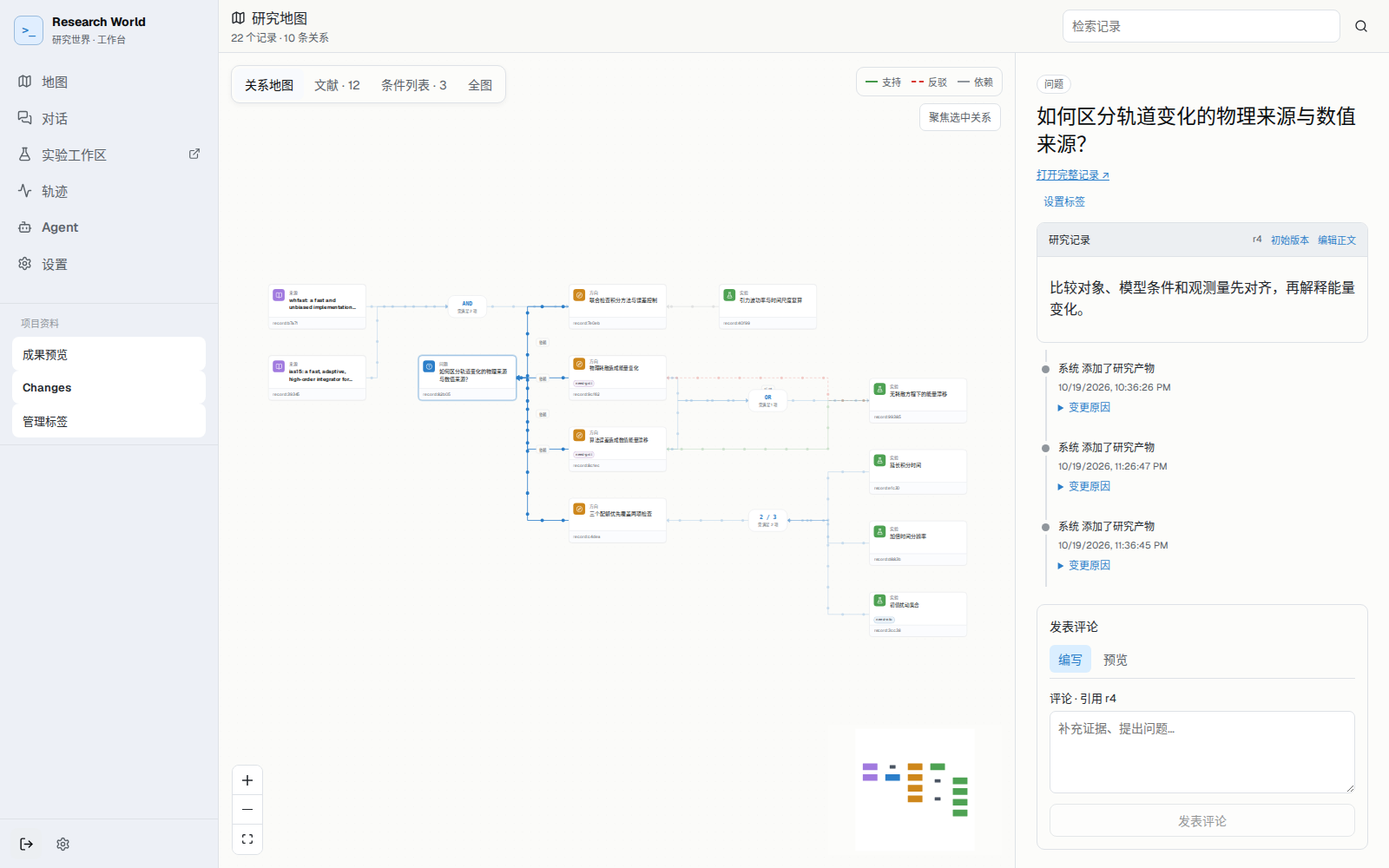
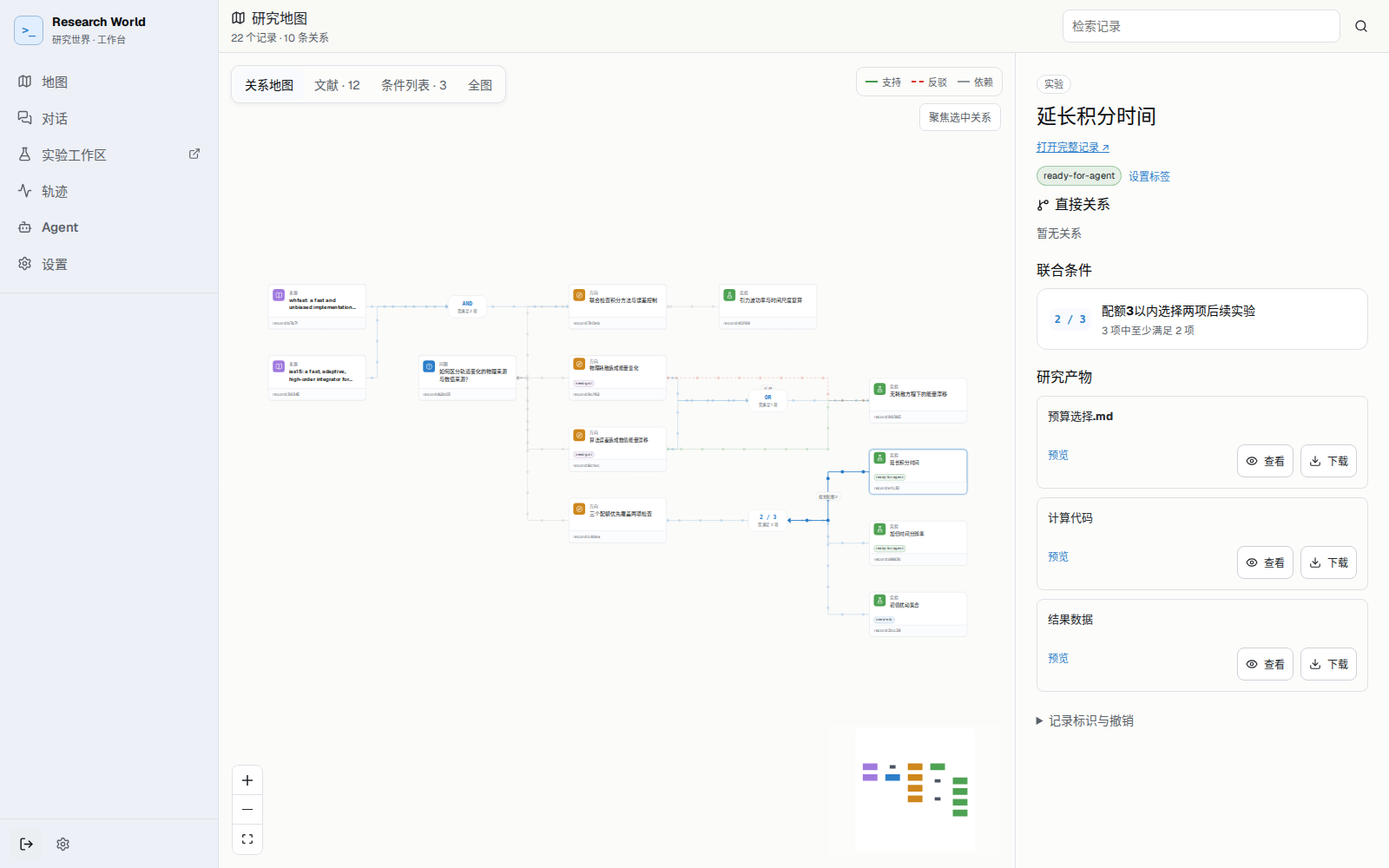
fix(385): keep discussions in record details and move project tools to settings

diff --git a/research-world/web/src/graph/changes.css b/research-world/web/src/graph/changes.css
@@ -1,11 +1,10 @@
 .research-label{display:inline-block;max-width:140px;padding:2px 7px;border:1px solid color-mix(in srgb,var(--label-color),transparent 65%);border-radius:999px;background:color-mix(in srgb,var(--label-color),transparent 90%);color:var(--text);font-size:11px;line-height:1.5;overflow:hidden;text-overflow:ellipsis;white-space:nowrap;vertical-align:middle}
-.record-labels{display:flex;flex-wrap:wrap;align-items:center;gap:8px;margin:12px 0}.record-label-badges{display:flex;flex-wrap:wrap;gap:5px}.record-workspace-tabs{display:flex;gap:4px;border-bottom:1px solid var(--line);padding-bottom:8px;margin-top:16px}.record-workspace-tabs button{border:0;background:transparent;padding:7px 10px;border-radius:6px;color:var(--text-muted);cursor:pointer}.record-workspace-tabs button[aria-pressed=true]{background:var(--state-selected-surface);color:var(--state-selected)}
-.record-version{display:flex;gap:10px;flex-wrap:wrap;font-size:11px;color:var(--text-muted);margin:12px 0}.record-version button{font-size:11px}.record-workspace .node-body{padding-top:0}.fixed-record{padding:10px;background:var(--surface-muted);border-radius:7px;font-size:12px;display:grid;gap:8px}.record-change{padding:14px 0;border-bottom:1px solid var(--line);font-size:13px;line-height:1.7;overflow-wrap:anywhere}.record-change header{display:flex;justify-content:space-between;gap:12px}.change-meta{font-size:11px;color:var(--text-muted)}.record-change details summary{cursor:pointer;color:var(--text-muted);font-size:12px}.record-diff{display:grid;gap:8px;margin-top:10px}.record-diff>div{padding:10px;border:1px solid var(--line);border-radius:7px}.record-diff>div:first-child{background:color-mix(in srgb,#b54738,transparent 94%)}.record-diff>div:last-child{background:color-mix(in srgb,#287445,transparent 94%)}.record-diff pre{white-space:pre-wrap;overflow-wrap:anywhere;font-size:12px}.record-diff .research-label{margin:4px}.record-edit-form,.label-form{display:grid;gap:12px}.record-edit-form label,.label-form>label,.record-discussion label{display:grid;gap:6px;font-size:13px}.record-edit-form input,.record-edit-form textarea,.label-form input:not([type=checkbox]),.label-form textarea,.record-discussion textarea{width:100%;min-width:0;border:1px solid var(--line);border-radius:7px;padding:9px;background:var(--paper);color:var(--text);box-sizing:border-box}.record-edit-form textarea{resize:vertical}.record-discussion textarea{min-height:95px;resize:vertical}.record-discussion form{display:grid;gap:12px;margin-top:16px}.record-discussion article{border-bottom:1px solid var(--line);padding:10px 0;overflow-wrap:anywhere}.label-manager-list{list-style:none;padding:0;display:grid;gap:8px}.label-manager-list li{display:flex;align-items:center;gap:8px;border-bottom:1px solid var(--line);padding:8px 0}.label-manager-list li>div{flex:1;min-width:0}.label-manager-list p{font-size:12px;color:var(--text-muted);margin:5px 0;overflow-wrap:anywhere}.label-manager-list button,.label-delete button{padding:5px 9px;border:1px solid var(--line);border-radius:6px;background:var(--paper);color:var(--text);cursor:pointer}.label-form input[type=color]{height:38px;max-width:90px;padding:3px}.label-options{display:grid;gap:10px;max-height:280px;overflow:auto}.label-options>label{display:flex;align-items:center;flex-wrap:wrap;gap:7px}.label-options small{color:var(--text-muted)}.label-delete{padding:12px;border:1px solid var(--state-failed);border-radius:8px;margin:12px 0}.label-delete button{margin-right:8px}.node-labels{display:flex;gap:3px;min-width:0;overflow:hidden;padding:0 12px 7px}.node-labels .research-label{max-width:98px;font-size:10px}.node-labels .extra-labels{font-size:10px;color:var(--text-muted);align-self:center}.map-toolbar-actions{display:flex;align-items:center;gap:10px}.map-toolbar-actions>.button{white-space:nowrap}
-@media(max-width:700px){.map-toolbar-actions{flex-wrap:wrap;gap:6px;justify-content:flex-end}.map-toolbar-actions>.button{font-size:12px;padding:5px 8px}.record-edit-form textarea{max-height:45vh}.label-manager-list{gap:5px}}
+.record-labels{display:flex;flex-wrap:wrap;align-items:center;gap:8px;margin:12px 0}.record-label-badges{display:flex;flex-wrap:wrap;gap:5px}
+.record-version{display:flex;gap:10px;flex-wrap:wrap;font-size:11px;color:var(--text-muted);margin:12px 0}.record-version button{font-size:11px}.record-workspace .node-body{padding-top:0}.fixed-record{padding:10px;background:var(--surface-muted);border-radius:7px;font-size:12px;display:grid;gap:8px}.record-diff{display:grid;gap:8px;margin-top:10px}.record-diff>div{padding:10px;border:1px solid var(--line);border-radius:7px}.record-diff>div:first-child{background:color-mix(in srgb,#b54738,transparent 94%)}.record-diff>div:last-child{background:color-mix(in srgb,#287445,transparent 94%)}.record-diff pre{white-space:pre-wrap;overflow-wrap:anywhere;font-size:12px}.record-diff .research-label{margin:4px}.record-edit-form,.label-form{display:grid;gap:12px}.record-edit-form label,.label-form>label,.record-discussion label{display:grid;gap:6px;font-size:13px}.record-edit-form input,.record-edit-form textarea,.label-form input:not([type=checkbox]),.label-form textarea,.record-discussion textarea{width:100%;min-width:0;border:1px solid var(--line);border-radius:7px;padding:9px;background:var(--paper);color:var(--text);box-sizing:border-box}.record-edit-form textarea{resize:vertical}.record-discussion textarea{min-height:95px;resize:vertical}.record-discussion form{display:grid;gap:12px;margin-top:16px}.record-discussion article{border-bottom:1px solid var(--line);padding:10px 0;overflow-wrap:anywhere}.label-manager-list{list-style:none;padding:0;display:grid;gap:8px}.label-manager-list li{display:flex;align-items:center;gap:8px;border-bottom:1px solid var(--line);padding:8px 0}.label-manager-list li>div{flex:1;min-width:0}.label-manager-list p{font-size:12px;color:var(--text-muted);margin:5px 0;overflow-wrap:anywhere}.label-manager-list button,.label-delete button{padding:5px 9px;border:1px solid var(--line);border-radius:6px;background:var(--paper);color:var(--text);cursor:pointer}.label-form input[type=color]{height:38px;max-width:90px;padding:3px}.label-options{display:grid;gap:10px;max-height:280px;overflow:auto}.label-options>label{display:flex;align-items:center;flex-wrap:wrap;gap:7px}.label-options small{color:var(--text-muted)}.label-delete{padding:12px;border:1px solid var(--state-failed);border-radius:8px;margin:12px 0}.label-delete button{margin-right:8px}.node-labels{display:flex;gap:3px;min-width:0;overflow:hidden;padding:0 12px 7px}.node-labels .research-label{max-width:98px;font-size:10px}.node-labels .extra-labels{font-size:10px;color:var(--text-muted);align-self:center}
+@media(max-width:700px){.record-edit-form textarea{max-height:45vh}.label-manager-list{gap:5px}}
 .research-node:has(.node-labels)>header{padding-top:6px;padding-bottom:2px}.research-node:has(.node-labels)>header h3{font-size:14px;line-height:1.3}.node-labels{height:24px;flex-shrink:0;padding-bottom:4px}.node-labels .research-label{line-height:1.2;padding:2px 6px}
 .issue-description{border:1px solid var(--line);border-radius:9px;overflow:hidden;margin-top:16px}.issue-description>header,.timeline-comment>header{display:flex;align-items:center;justify-content:space-between;gap:8px;padding:10px 13px;background:var(--surface-muted);border-bottom:1px solid var(--line);font-size:12px;flex-wrap:wrap}.issue-description .record-version{margin:0}.issue-description .node-body{padding:12px 14px;margin:0}.issue-description .fixed-record{margin:12px}.research-timeline{padding:8px 0}.timeline-comment{border:1px solid var(--line);border-radius:9px;margin:16px 0;overflow:hidden;overflow-wrap:anywhere}.timeline-comment>p,.timeline-comment>ul,.timeline-comment>ol{margin:12px 15px}.timeline-comment time,.timeline-event time{font-size:11px;color:var(--text-muted)}.timeline-event{display:flex;gap:10px;padding:12px 8px;border-left:2px solid var(--line);margin-left:10px;font-size:12px;line-height:1.8;overflow-wrap:anywhere}.event-dot{flex:none;width:9px;height:9px;background:var(--text-faint);border-radius:50%;margin-top:6px;margin-left:-14px;box-shadow:0 0 0 4px var(--app-panel)}.timeline-event time{display:block}.timeline-event details{margin-top:4px}.timeline-event summary{cursor:pointer;color:var(--state-selected)}.label-delta{display:flex;gap:4px;flex-wrap:wrap;margin:4px 0}.record-discussion{border:1px solid var(--line);border-radius:9px;padding:14px;margin:12px 0 22px}.record-discussion form{margin:0}.record-discussion h3{margin:0;font-size:14px}.markdown-tabs{display:flex;gap:4px;border-bottom:1px solid var(--line);padding-bottom:6px}.markdown-tabs button{border:0;border-radius:6px;padding:6px 10px;cursor:pointer;background:none;color:var(--text-muted)}.markdown-tabs button[aria-pressed=true]{background:var(--state-selected-surface);color:var(--state-selected)}.record-edit-form label[hidden],.record-discussion label[hidden]{display:none}.markdown-preview{padding:8px;min-height:100px;overflow-wrap:anywhere}.record-open{font-size:12px;display:inline-block;margin-top:10px}.record-asset{border:1px solid var(--line);border-radius:8px;padding:12px;margin:10px 0;font-size:13px;overflow-wrap:anywhere}.record-asset>div{display:flex;align-items:center;justify-content:space-between;gap:10px;margin-top:8px;flex-wrap:wrap}.record-asset iframe{width:100%;height:420px;border:1px solid var(--line);margin-top:12px;border-radius:5px}.record-assets h2{margin-top:20px}.research-record-page{height:100%;overflow:auto;padding:24px max(20px,calc((100% - 1180px)/2)) 64px}.research-record-page>nav{display:flex;gap:18px;align-items:center;font-size:12px;color:var(--text-muted);margin-bottom:22px}.research-record-page>header>h1{font-size:28px;line-height:1.5}.research-record-columns{display:grid;grid-template-columns:minmax(0,1fr) 300px;gap:26px}.research-record-columns>aside{min-width:0}.source-list{height:100%;overflow:auto;padding:74px 20px 24px;display:grid;align-content:start;gap:10px}.source-list>button{text-align:left;border:1px solid var(--line);border-radius:8px;padding:14px;background:var(--paper);cursor:pointer;color:var(--text)}.source-list>button>span{display:flex;gap:6px;flex-wrap:wrap;margin-top:8px}.results-list{display:grid;gap:15px}.results-list article{border-bottom:1px solid var(--line);padding-bottom:14px}.results-list h3{font-size:15px;margin:0 0 10px}.results-list article>div{display:flex;gap:10px;flex-wrap:wrap;font-size:13px}.map-view-switch{max-width:calc(100% - 32px);flex-wrap:wrap;z-index:5}.record-diff{min-width:0}.record-diff>div{min-width:0}.research-record-page .fixed-record{overflow-wrap:anywhere}.artifact-image{display:block;width:100%;height:auto}
-@media(max-width:900px){.research-record-columns{grid-template-columns:1fr}.research-record-page{padding:18px 14px 40px}.research-record-page>header>h1{font-size:24px}.map-toolbar-actions{flex-wrap:wrap}.graph-legend{top:auto;bottom:14px;right:14px}.record-asset iframe{height:360px}}
+@media(max-width:900px){.research-record-columns{grid-template-columns:1fr}.research-record-page{padding:18px 14px 40px}.research-record-page>header>h1{font-size:24px}.graph-legend{top:auto;bottom:14px;right:14px}.record-asset iframe{height:360px}}
 .research-record-page .text-link{max-width:100%;padding:0;border:0;color:var(--accent);background:transparent;font-size:12px;text-align:left;overflow-wrap:anywhere;cursor:pointer}.asset-preview{display:block!important;margin-top:12px;max-height:440px;overflow:auto;border-top:1px solid var(--line);padding-top:12px;min-width:0;font-size:13px;line-height:1.7}.asset-preview h1,.asset-preview h2{font-size:17px;line-height:1.5}.asset-preview pre{white-space:pre;overflow:auto;font-size:11px;padding:8px}.asset-preview .artifact-image{width:100%;height:auto}.record-asset>.asset-preview{display:block}.asset-preview .markdown-table-scroll{font-size:12px}.asset-preview .markdown-table-scroll td,.asset-preview .markdown-table-scroll th{padding:5px}.record-assets .artifact-download .button{font-size:12px;padding:6px 9px}
 .focus-record{position:absolute;right:16px;top:58px;z-index:5;padding:6px 10px;border:1px solid var(--line);border-radius:7px;background:var(--paper);color:var(--text-muted);font-size:12px;cursor:pointer}
 @media(max-width:900px){.focus-record{top:auto;bottom:52px}}
-.project-tools{padding:16px 14px 8px;border-top:1px solid var(--line);margin-top:12px}.project-tools h2{font-size:11px;color:var(--text-faint);font-weight:600;margin:0 10px 8px}.project-tools>.button{display:block;width:100%;text-align:left;border:0;background:transparent;padding:10px 12px;color:var(--text-muted);font-size:13px}.project-tools>.button:hover{background:var(--surface-muted);color:var(--text)}

diff --git a/research-world/web/tests/research-changes.spec.js b/research-world/web/tests/research-changes.spec.js
@@ -12,15 +12,14 @@ async function seed(request){
   return {project:p.id,root,record};
 }
 
-test('manage labels and versioned research changes inside existing map',async({page,request})=>{
+test('manage labels in settings and versioned research discussions on the record page',async({page,request})=>{
   const f=await seed(request),errors=[];page.on('pageerror',e=>errors.push(e.message));
   try{
     await page.addInitScript(id=>localStorage.setItem('rw.active_project',id),f.project);
     await page.goto('/map?node='+encodeURIComponent(f.record.id));
-    await manageAndAssign(page);await reviseAndDiscuss(page);await renameAndDelete(page);
-    await page.locator('.project-tools').getByRole('button',{name:'Changes',exact:true}).click();
-    await expect(page.getByRole('dialog',{name:'项目 Changes'})).toContainText('删除项目标签并移除关联');
-    await page.getByRole('button',{name:'关闭',exact:true}).click();
+    await manageAndAssign(page,f);await reviseAndDiscuss(page);await renameAndDelete(page);
+    await expect(page.locator('.research-timeline')).toContainText('删除项目标签并移除关联');
+    await page.goto(`/projects/${encodeURIComponent(f.project)}/map?node=${encodeURIComponent(f.record.id)}`);
     await page.setViewportSize({width:390,height:844});
     await page.locator('.inspector').scrollIntoViewIfNeeded();
     await expect.poll(()=>page.evaluate(()=>document.documentElement.scrollWidth<=innerWidth)).toBeTruthy();
@@ -28,13 +27,17 @@ test('manage labels and versioned research changes inside existing map',async({p
   }finally{await page.close();await request.post(f.root+'/workspace/stop');await request.delete(f.root);}
 });
 
-async function manageAndAssign(page){
+async function manageAndAssign(page,f){
+  await expect(page.locator('.inspector .record-workspace')).toHaveCount(0);
+  await expect(page.locator('.sidebar').getByRole('button',{name:/Changes|管理标签|研究成果/})).toHaveCount(0);
+  await page.goto('/settings');
   await page.getByRole('button',{name:'管理标签',exact:true}).click();
   for(const name of ['warning','need-grill']){
     await page.getByLabel('标签名称',{exact:true}).fill(name);await page.getByLabel('标签说明',{exact:true}).fill('用户定义的关注点');
     await page.getByRole('button',{name:'创建标签',exact:true}).click();await expect(page.locator('.label-manager-list')).toContainText(name);
   }
-  await page.getByRole('button',{name:'关闭',exact:true}).click();await page.getByRole('button',{name:'设置标签',exact:true}).click();
+  await page.getByRole('button',{name:'关闭',exact:true}).click();
+  await page.goto(`/projects/${encodeURIComponent(f.project)}/records/${encodeURIComponent(f.record.id)}`);await page.getByRole('button',{name:'设置标签',exact:true}).click();
   await page.getByRole('dialog').getByLabel(/warning/).check();await page.getByRole('dialog').getByLabel(/need-grill/).check();
   await page.getByLabel('变更原因',{exact:true}).fill('需要质疑当前模型前提');await page.getByRole('button',{name:'保存标签关联'}).click();
   await expect(page.locator('.record-label-badges .research-label')).toHaveCount(2);
@@ -44,7 +47,7 @@ async function reviseAndDiscuss(page){
   await page.getByRole('button',{name:'编辑正文',exact:true}).click();
   await page.getByLabel('标题',{exact:true}).fill('限定后的解释');await page.getByLabel('正文（Markdown）',{exact:true}).fill('**范围：**只讨论已明确条件的模型。');
   await page.getByLabel('修订原因',{exact:true}).fill('明确适用条件');await page.getByRole('button',{name:'保存修订'}).click();
-  await expect(page.locator('.inspector-header')).toContainText('限定后的解释');
+  await expect(page.locator('.research-record-page h1')).toContainText('限定后的解释');
   await page.getByRole('button',{name:'初始版本',exact:true}).click();await expect(page.locator('.node-body')).toContainText('初稿');
 
   await page.getByLabel('评论正文',{exact:true}).fill('这条评论固定针对初稿，尚需补信息。');await page.getByRole('button',{name:'发表评论'}).click();
@@ -55,13 +58,14 @@ async function reviseAndDiscuss(page){
 }
 
 async function renameAndDelete(page){
+  const recordUrl=page.url();await page.goto('/settings');
   await page.getByRole('button',{name:'管理标签',exact:true}).click();
   const row=page.locator('.label-manager-list li').filter({hasText:'warning'});
   await row.getByRole('button',{name:'编辑',exact:true}).click();await page.getByLabel('标签名称',{exact:true}).fill('需核查');
   await page.getByRole('button',{name:'保存标签',exact:true}).click();
   await page.locator('.label-manager-list li').filter({hasText:'需核查'}).getByRole('button',{name:'删除',exact:true}).click();
   await page.getByRole('button',{name:'确认删除标签'}).click();await expect(page.locator('.label-manager-list')).not.toContainText('需核查');
-  await page.getByRole('button',{name:'关闭',exact:true}).click();await expect(page.locator('.record-label-badges .research-label')).toHaveCount(1);
+  await page.getByRole('button',{name:'关闭',exact:true}).click();await page.goto(recordUrl);await expect(page.locator('.record-label-badges .research-label')).toHaveCount(1);
   await page.getByRole('button',{name:'初始版本',exact:true}).click();await expect(page.locator('.fixed-record')).toContainText('待核查的解释');
 }
 
@@ -69,7 +73,7 @@ test('concurrent edit reports conflict and retains the local draft',async({page,
   const f=await seed(request);
   try{
     await page.addInitScript(id=>localStorage.setItem('rw.active_project',id),f.project);
-    await page.goto('/map?node='+encodeURIComponent(f.record.id));await page.getByRole('button',{name:'编辑正文',exact:true}).click();
+    await page.goto(`/projects/${encodeURIComponent(f.project)}/records/${encodeURIComponent(f.record.id)}`);await page.getByRole('button',{name:'编辑正文',exact:true}).click();
     await page.getByLabel('正文（Markdown）',{exact:true}).fill('不能被覆盖的本地草稿');await page.getByLabel('修订原因',{exact:true}).fill('本地修改');
     await post(request,f.root+`/records/${f.record.id}/changes`,{kind:'revise',base_revision:1,reason:'另一处修改',title:'服务端新版本',text:'服务端内容'});
     await page.getByRole('button',{name:'保存修订'}).click();await expect(page.getByRole('dialog').getByRole('alert')).toContainText('记录已更新');
@@ -85,7 +89,8 @@ test('switching nodes never accumulates labels and issue comments provide previe
     for(const id of [f.record.id,other.id,f.record.id,other.id,f.record.id,other.id]){
       await page.locator(`.react-flow__node[data-id="${id}"]`).click();
       await expect(page.locator('.inspector .record-labels')).toHaveCount(1);
-      await expect(page.locator('.inspector .record-workspace')).toHaveCount(1);
+      await expect(page.locator('.inspector .record-workspace')).toHaveCount(0);
+      await expect(page.locator('.inspector').getByRole('link',{name:'打开完整记录 ↗'})).toHaveAttribute('href',new RegExp(encodeURIComponent(id)));
     }
     await page.goto(`/projects/${encodeURIComponent(f.project)}/records/${encodeURIComponent(other.id)}`);
     await page.getByLabel('评论正文').fill('**需要：**输入参数');

diff --git a/research-world/web/tests/component-coverage.spec.js b/research-world/web/tests/component-coverage.spec.js
@@ -17,13 +17,13 @@ test('semantic components have selectable conditions, source selection and resul
   const f=await fixture(request);
   try{
     await page.goto(`/projects/${encodeURIComponent(f.project)}/map?node=${encodeURIComponent(f.target.id)}`);
-    await expect(page.locator('.joint-node')).toHaveCount(3);await expect(page.locator('.research-node')).toHaveCount(4);
+    await expect(page.locator('.joint-node')).toHaveCount(3,{timeout:60000});await expect(page.locator('.research-node')).toHaveCount(4);
     await page.getByRole('button',{name:'聚焦选中关系'}).click();await expect(page.getByRole('button',{name:'显示研究主线'})).toBeVisible();
     await page.getByRole('button',{name:'条件列表 · 3',exact:true}).click();
     for(const condition of f.conditions){await page.locator('.joint-list .joint-list-item').filter({hasText:condition.title}).click();await expect(page.locator('.joint-inspector h1')).toHaveText(condition.title);}
     await page.getByRole('button',{name:'文献 · 4',exact:true}).click();await page.getByRole('button',{name:'MMR 选择阅读候选'}).click();
     await page.getByLabel('选择数量',{exact:true}).fill('2');await page.getByRole('button',{name:'运行选择',exact:true}).click();await expect(page.getByRole('dialog').locator('tbody tr')).toHaveCount(2);
-    await page.getByRole('button',{name:'关闭',exact:true}).click();await page.getByRole('button',{name:'成果预览',exact:true}).click();await expect(page.getByRole('dialog')).toContainText('核查结果.md');
+    await page.getByRole('button',{name:'关闭',exact:true}).click();await page.goto('/settings');await page.getByRole('button',{name:'研究成果',exact:true}).click();await expect(page.getByRole('dialog')).toContainText('核查结果.md');
     await page.goto(`/projects/${encodeURIComponent(f.project)}/records/${encodeURIComponent(f.target.id)}`);
     await page.locator('.record-assets').getByRole('button',{name:'预览',exact:true}).click();await expect(page.locator('.asset-preview')).toContainText('已完成的检查');
     await page.setViewportSize({width:390,height:844});await expect.poll(()=>page.evaluate(()=>document.documentElement.scrollWidth<=innerWidth)).toBeTruthy();

diff --git a/research-world/web/src/graph/ResultsPreview.jsx b/research-world/web/src/graph/ResultsPreview.jsx
@@ -9,5 +9,5 @@ export function ResultsPreview(){
   useEffect(()=>{let active=true;if(open)getLocalMap(projectId,{limit:1000}).then(v=>{if(active)setMap(v);}).catch(e=>{if(active)setError(e.message);});return()=>{active=false;};},[open,projectId]);
   const records=map.records.filter(r=>r.type!=='source'&&r.artifact_ids.length);
   const names=new Map(map.artifacts.map(a=>[a.id,a.media_type]));
-  return <><button className="button secondary" onClick={()=>setOpen(true)}>成果预览</button>{open&&<Modal title="研究成果" open wide onClose={()=>setOpen(false)}>{error&&<p role="alert">{error}</p>}<div className="results-list">{records.map(r=><article key={r.id}><h3><a href={recordUrl(projectId,r.id)} target="_blank" rel="noreferrer">{r.content.title}</a></h3><div>{r.artifact_ids.map(id=><a key={id} href={artifactViewUrl(projectId,id)} target="_blank" rel="noreferrer">{r.content.attachments?.find(a=>a.id===id)?.name||names.get(id)}</a>)}</div></article>)}{!records.length&&<p>暂无产物。</p>}</div></Modal>}</>;
+  return <><button className="button secondary" onClick={()=>setOpen(true)}>研究成果</button>{open&&<Modal title="研究成果" open wide onClose={()=>setOpen(false)}>{error&&<p role="alert">{error}</p>}<div className="results-list">{records.map(r=><article key={r.id}><h3><a href={recordUrl(projectId,r.id)} target="_blank" rel="noreferrer">{r.content.title}</a></h3><div>{r.artifact_ids.map(id=><a key={id} href={artifactViewUrl(projectId,id)} target="_blank" rel="noreferrer">{r.content.attachments?.find(a=>a.id===id)?.name||names.get(id)}</a>)}</div></article>)}{!records.length&&<p>暂无产物。</p>}</div></Modal>}</>;
 }

diff --git a/research-world/web/src/graph/Inspector.jsx b/research-world/web/src/graph/Inspector.jsx
@@ -7,14 +7,13 @@ import { Modal } from "../components/Modal";
 import {RecordAssets} from './RecordAssets';
 import { KIND_LABELS, recordText } from "../utils/labels";
 import {RecordLabels} from './Labels';
-import {RecordWorkspace} from './RecordWorkspace';
 
 
 export function Inspector({ node, nodes, edges, artifacts = [], conditions = [], onSelect, onDeleteRecord, onDeleteRelation }) {
   const {pending,setPending,busy,requestRemoval,confirm} = useRemoval(node,onDeleteRecord,onDeleteRelation);
   if (!node) return <aside className="inspector inspector-empty">选择节点查看上下文。</aside>;
   return <aside className="inspector"><div className="inspector-scroll"><NodeHeader node={node} />
-    <RecordLabels key={`labels:${node.id}`} node={node}/><RecordWorkspace key={`workspace:${node.id}`} node={node}/>
+    <RecordLabels key={`labels:${node.id}`} node={node}/>
     <Relations node={node} nodes={nodes} edges={edges} onSelect={onSelect} onDelete={(edge) => setPending({ kind: "Relation", id: edge.id })} />
     <JointLinks conditions={conditions} recordId={node.id} onSelect={onSelect} />
     <RecordAssets key={`assets:${node.id}`} node={node} artifacts={artifacts} /><details className="node-details"><summary>记录标识与撤销</summary><NodeIdEntry node={node} /><RecordActions node={node} onRequest={requestRemoval}/></details>

diff --git a/research-world/web/src/graph/Labels.jsx b/research-world/web/src/graph/Labels.jsx
@@ -54,7 +54,7 @@ function AssignLabels({node,onClose}){
   return <Modal title="设置研究标签" open onClose={busy?()=>{}:onClose}><form onSubmit={submit} className="label-form">
     <p className="muted">基于 r{base} · 不同标签可同时使用。</p><div className="label-options">{labels.map(label=><label key={label.id}>
       <input type="checkbox" checked={ids.includes(label.id)} onChange={e=>setIds(e.target.checked?[...ids,label.id]:ids.filter(id=>id!==label.id))}/><LabelBadge label={label}/><small>{label.description}</small></label>)}</div>
-    {!labels.length&&<p>尚无标签，请先在地图工具栏创建。</p>}<label>变更原因<input name="reason" required maxLength={500} placeholder="为什么添加或移除这些标签？"/></label>
+    {!labels.length&&<p>尚无标签，请先在项目设置中创建。</p>}<label>变更原因<input name="reason" required maxLength={500} placeholder="为什么添加或移除这些标签？"/></label>
     {error&&<p role="alert">{error}</p>}<button className="button primary" disabled={busy}>保存标签关联</button>
   </form></Modal>;
 }

diff --git a/research-world/web/src/components/AppShell.jsx b/research-world/web/src/components/AppShell.jsx
@@ -4,7 +4,6 @@ import { NavLink, Outlet, useLocation } from "react-router-dom";
 import { useWorld } from "../context/WorldContext";
 import { RecordList } from "./RecordList";
 import { useWorkspace, WorkspaceReady } from "../context/WorkspaceContext";
-import {ProjectTools} from './ProjectTools';
 
 
 export const MODULES = [
@@ -59,7 +58,7 @@ function Sidebar({ open, close }) {
   const { pathname } = useLocation();
   return <aside className={`sidebar ${open ? "sidebar-open" : ""}`}>
     <button className="icon-button sidebar-close" onClick={close} title="关闭导航"><X size={19} /></button>
-    <Brand /><div><ModuleNav close={close} /><ProjectTools close={close}/></div><RecordList module={moduleOf(pathname)} close={close} /><ProjectDock close={close} /></aside>;
+    <Brand /><ModuleNav close={close} /><RecordList module={moduleOf(pathname)} close={close} /><ProjectDock close={close} /></aside>;
 }
 
 

diff --git a/research-world/web/src/pages/SettingsPage.jsx b/research-world/web/src/pages/SettingsPage.jsx
@@ -4,6 +4,8 @@ import { projectExportUrl } from "../api";
 import { EmptyState } from "../components/bits";
 import { useWorld } from "../context/WorldContext";
 import { formatDate } from "../utils/labels";
+import {LabelManager} from '../graph/Labels';
+import {ResultsPreview} from '../graph/ResultsPreview';
 import "../settings.css";
 
 
@@ -18,7 +20,7 @@ export function SettingsPage() {
       <div><dt>项目 ID</dt><dd className="mono">{project.id}</dd></div>
       <div><dt>创建时间</dt><dd>{formatDate(project.created_at)}</dd></div>
     </dl>
-    <ProjectExport projectId={project.id} />
+    <div className="settings-actions"><ResultsPreview/><LabelManager/><ProjectExport projectId={project.id}/></div>
     <ExitProject /></section>;
 }
 

diff --git a/research-world/web/src/settings.css b/research-world/web/src/settings.css
@@ -5,4 +5,4 @@
 .settings-record > div:last-child { border-bottom: 0; }
 .settings-record dt { color: var(--text-muted); font-size: 12px; }
 .settings-record dd { margin: 0; font-size: 13px; overflow-wrap: anywhere; }
-.settings-export { margin: 0 10px 14px 0; }
+.settings-actions { display: flex; flex-wrap: wrap; gap: 10px; margin-bottom: 18px; }
